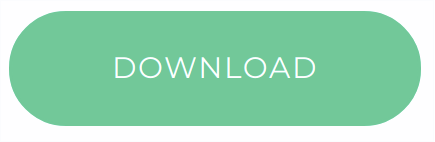
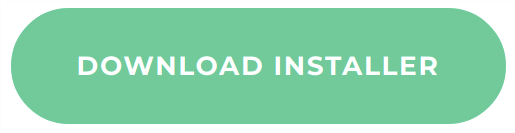
Center button and change text to "Download installer".

diff --git a/images/download_button_source.html b/images/download_button_source.html
@@ -1,0 +1,39 @@
+<!DOCTYPE html>
+<html>
+<head>
+<style>
+.button {
+	display: block;
+	margin: 0 auto;
+	padding: 0;
+	width: 300px;
+	height: 70px;
+	border: 2px solid #1ECD97;
+	border-radius: 40px;
+	background-color: #1ECD97;
+	color: #fff;
+	letter-spacing: 1px;
+	font-size: 16px;
+	font-family: 'Montserrat', sans-serif;
+	font-weight: bold;
+	-webkit-transition: background-color 0.3s, color 0.3s, width 0.3s, border-width 0.3s, border-color 0.3s;
+	transition: background-color 0.3s, color 0.3s, width 0.3s, border-width 0.3s, border-color 0.3s;
+}
+
+.button:hover {
+
+}
+
+.button:focus {
+	outline: none;
+}
+
+</style>
+</head>
+<body>
+
+<input type="button" class="button" value="DOWNLOAD INSTALLER
+">
+
+</body>
+</html>

diff --git a/README.md b/README.md
@@ -1,4 +1,7 @@
+<p align="center">
 <a href="https://github.com/hyperspy/hyperspy-bundle/releases"><img src="./images/download_button.png"></a>
+</p>
+
 
 # HyperSpy WinPython Bundle Distribution
 
@@ -8,7 +11,7 @@ that includes [HyperSpy](http://hyperspy.org/),
 [HyperSpyUI](http://hyperspy.org/hyperspyUI/) and all their dependencies.
 
 HyperSpy Bundle does not interact with any other Python
-installation, so it can be safely installehttps://tympanus.net/Development/IconHoverEffects/#set-4d alongside other
+installation, so it can be safely installed alongside other
 Python distributions. Moreover it is portable, so it can be installed to an USB
 key.
 
